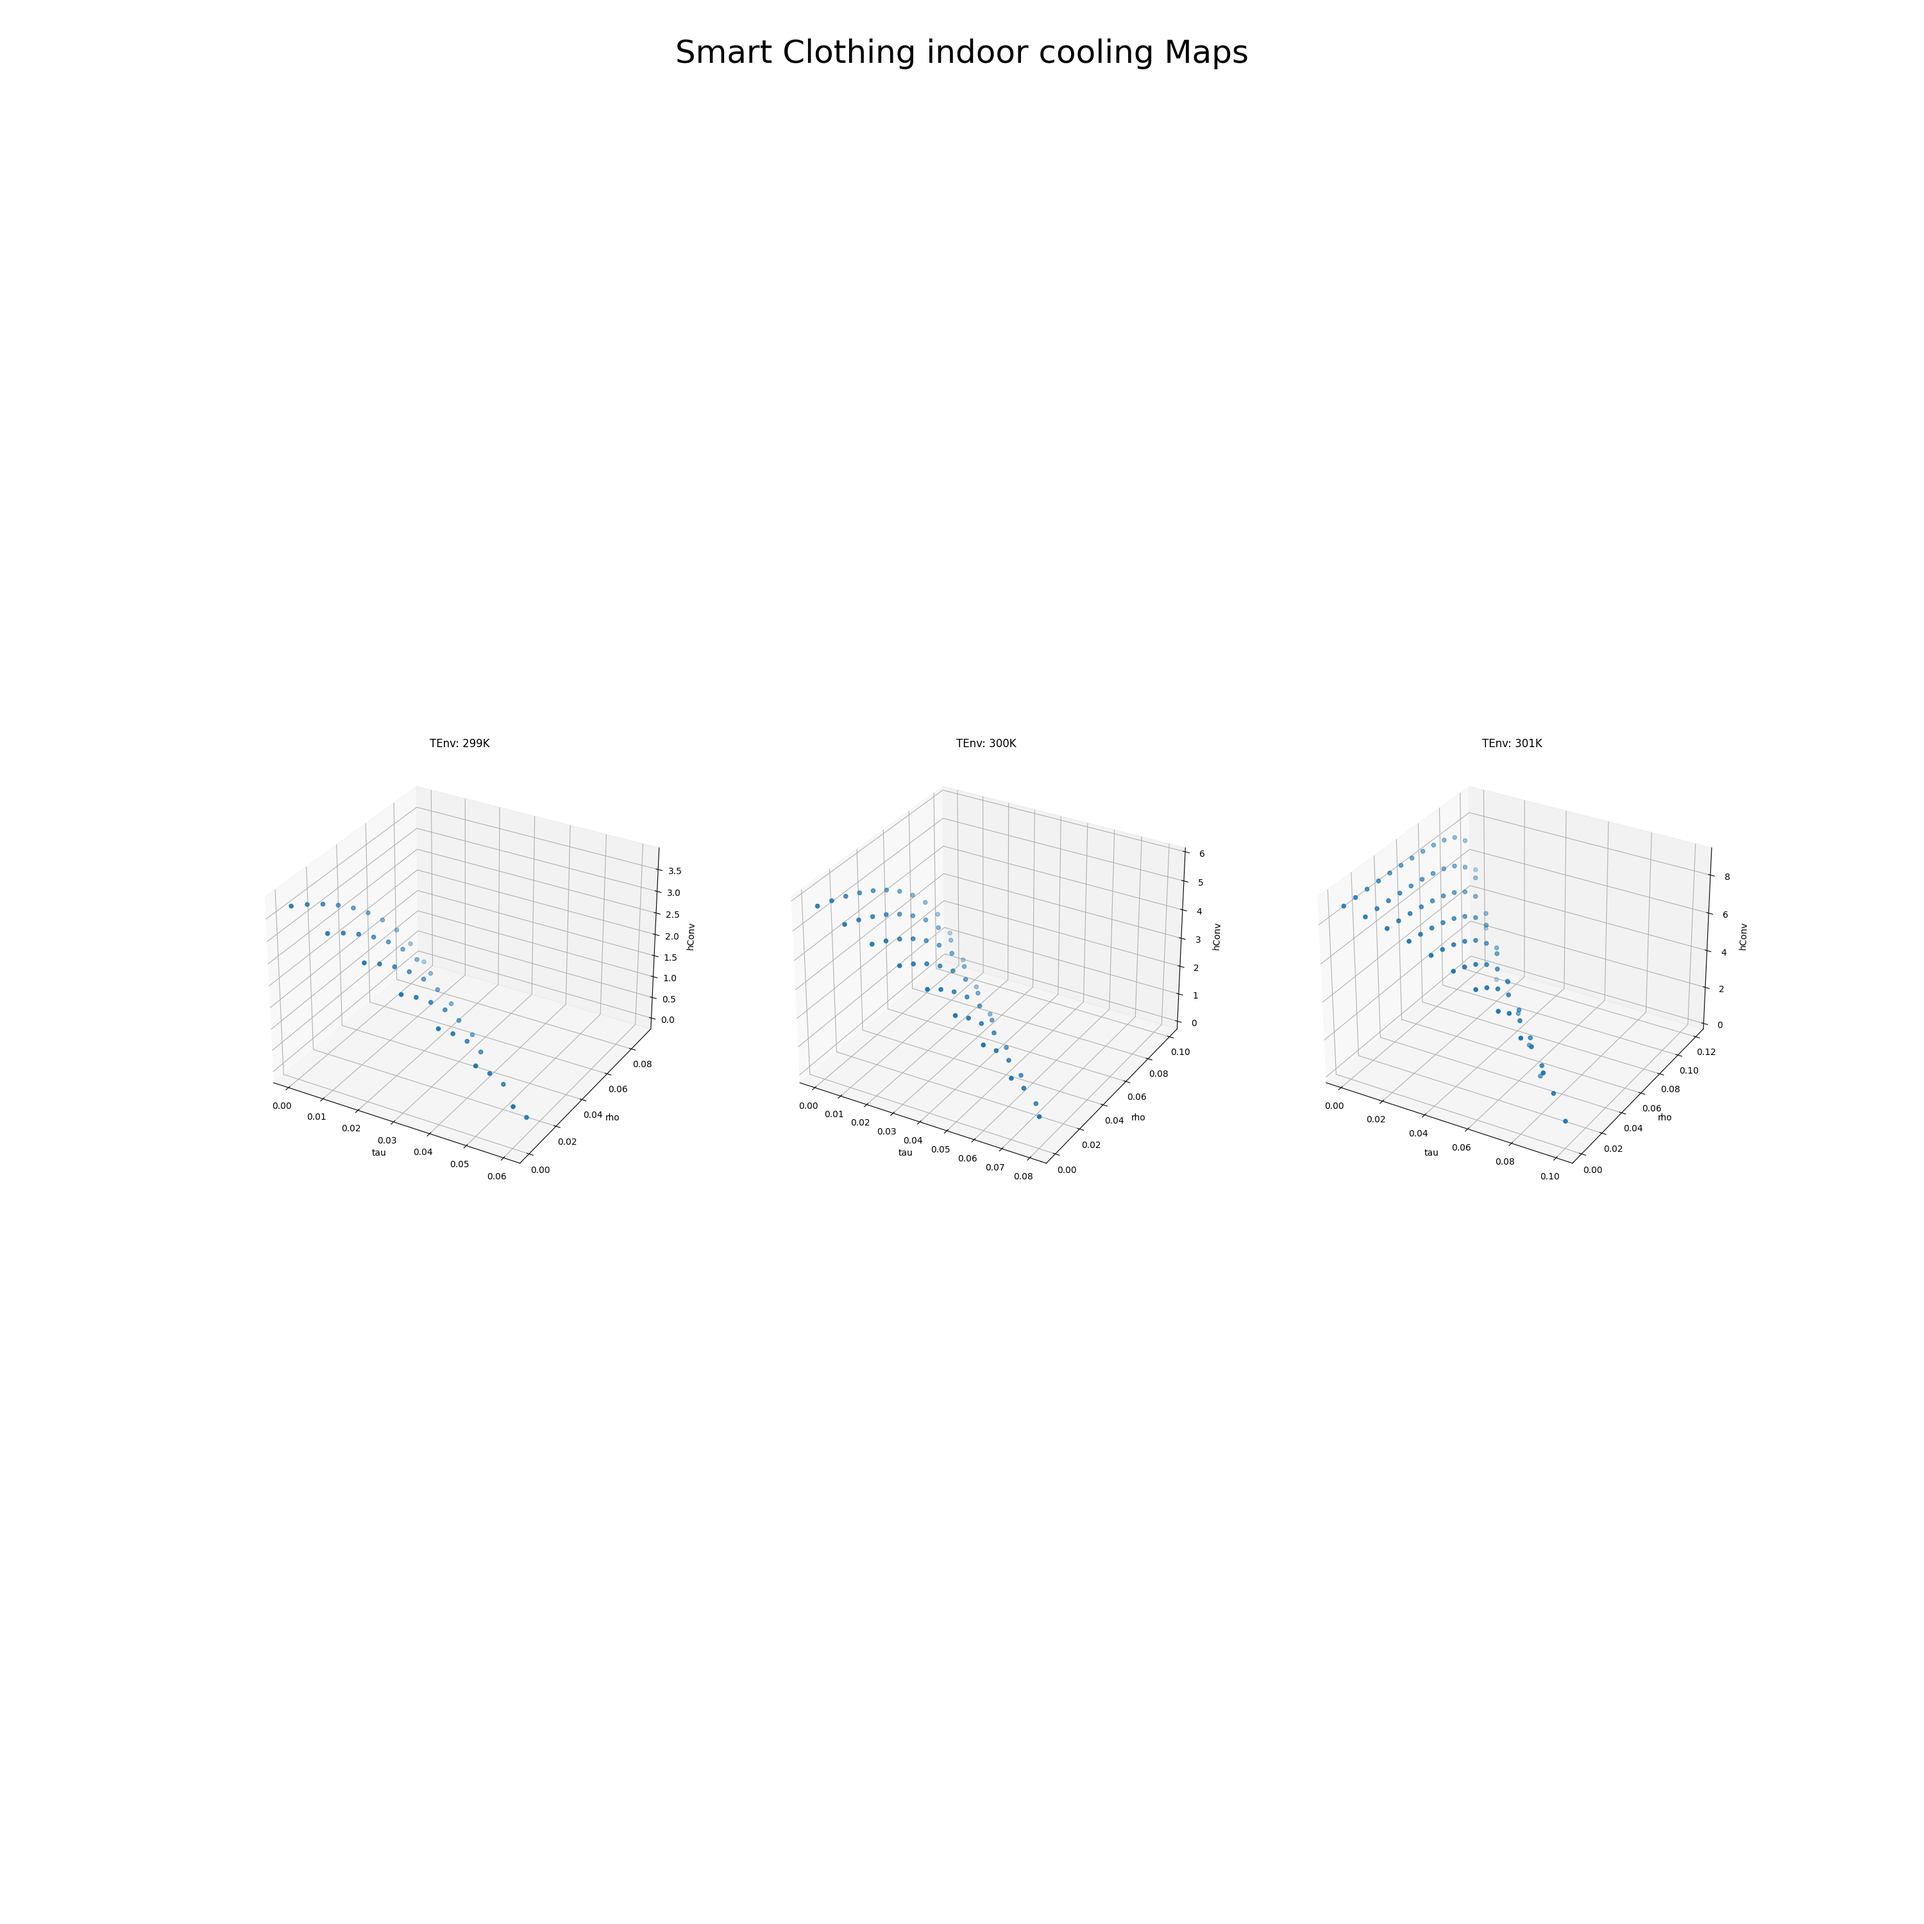
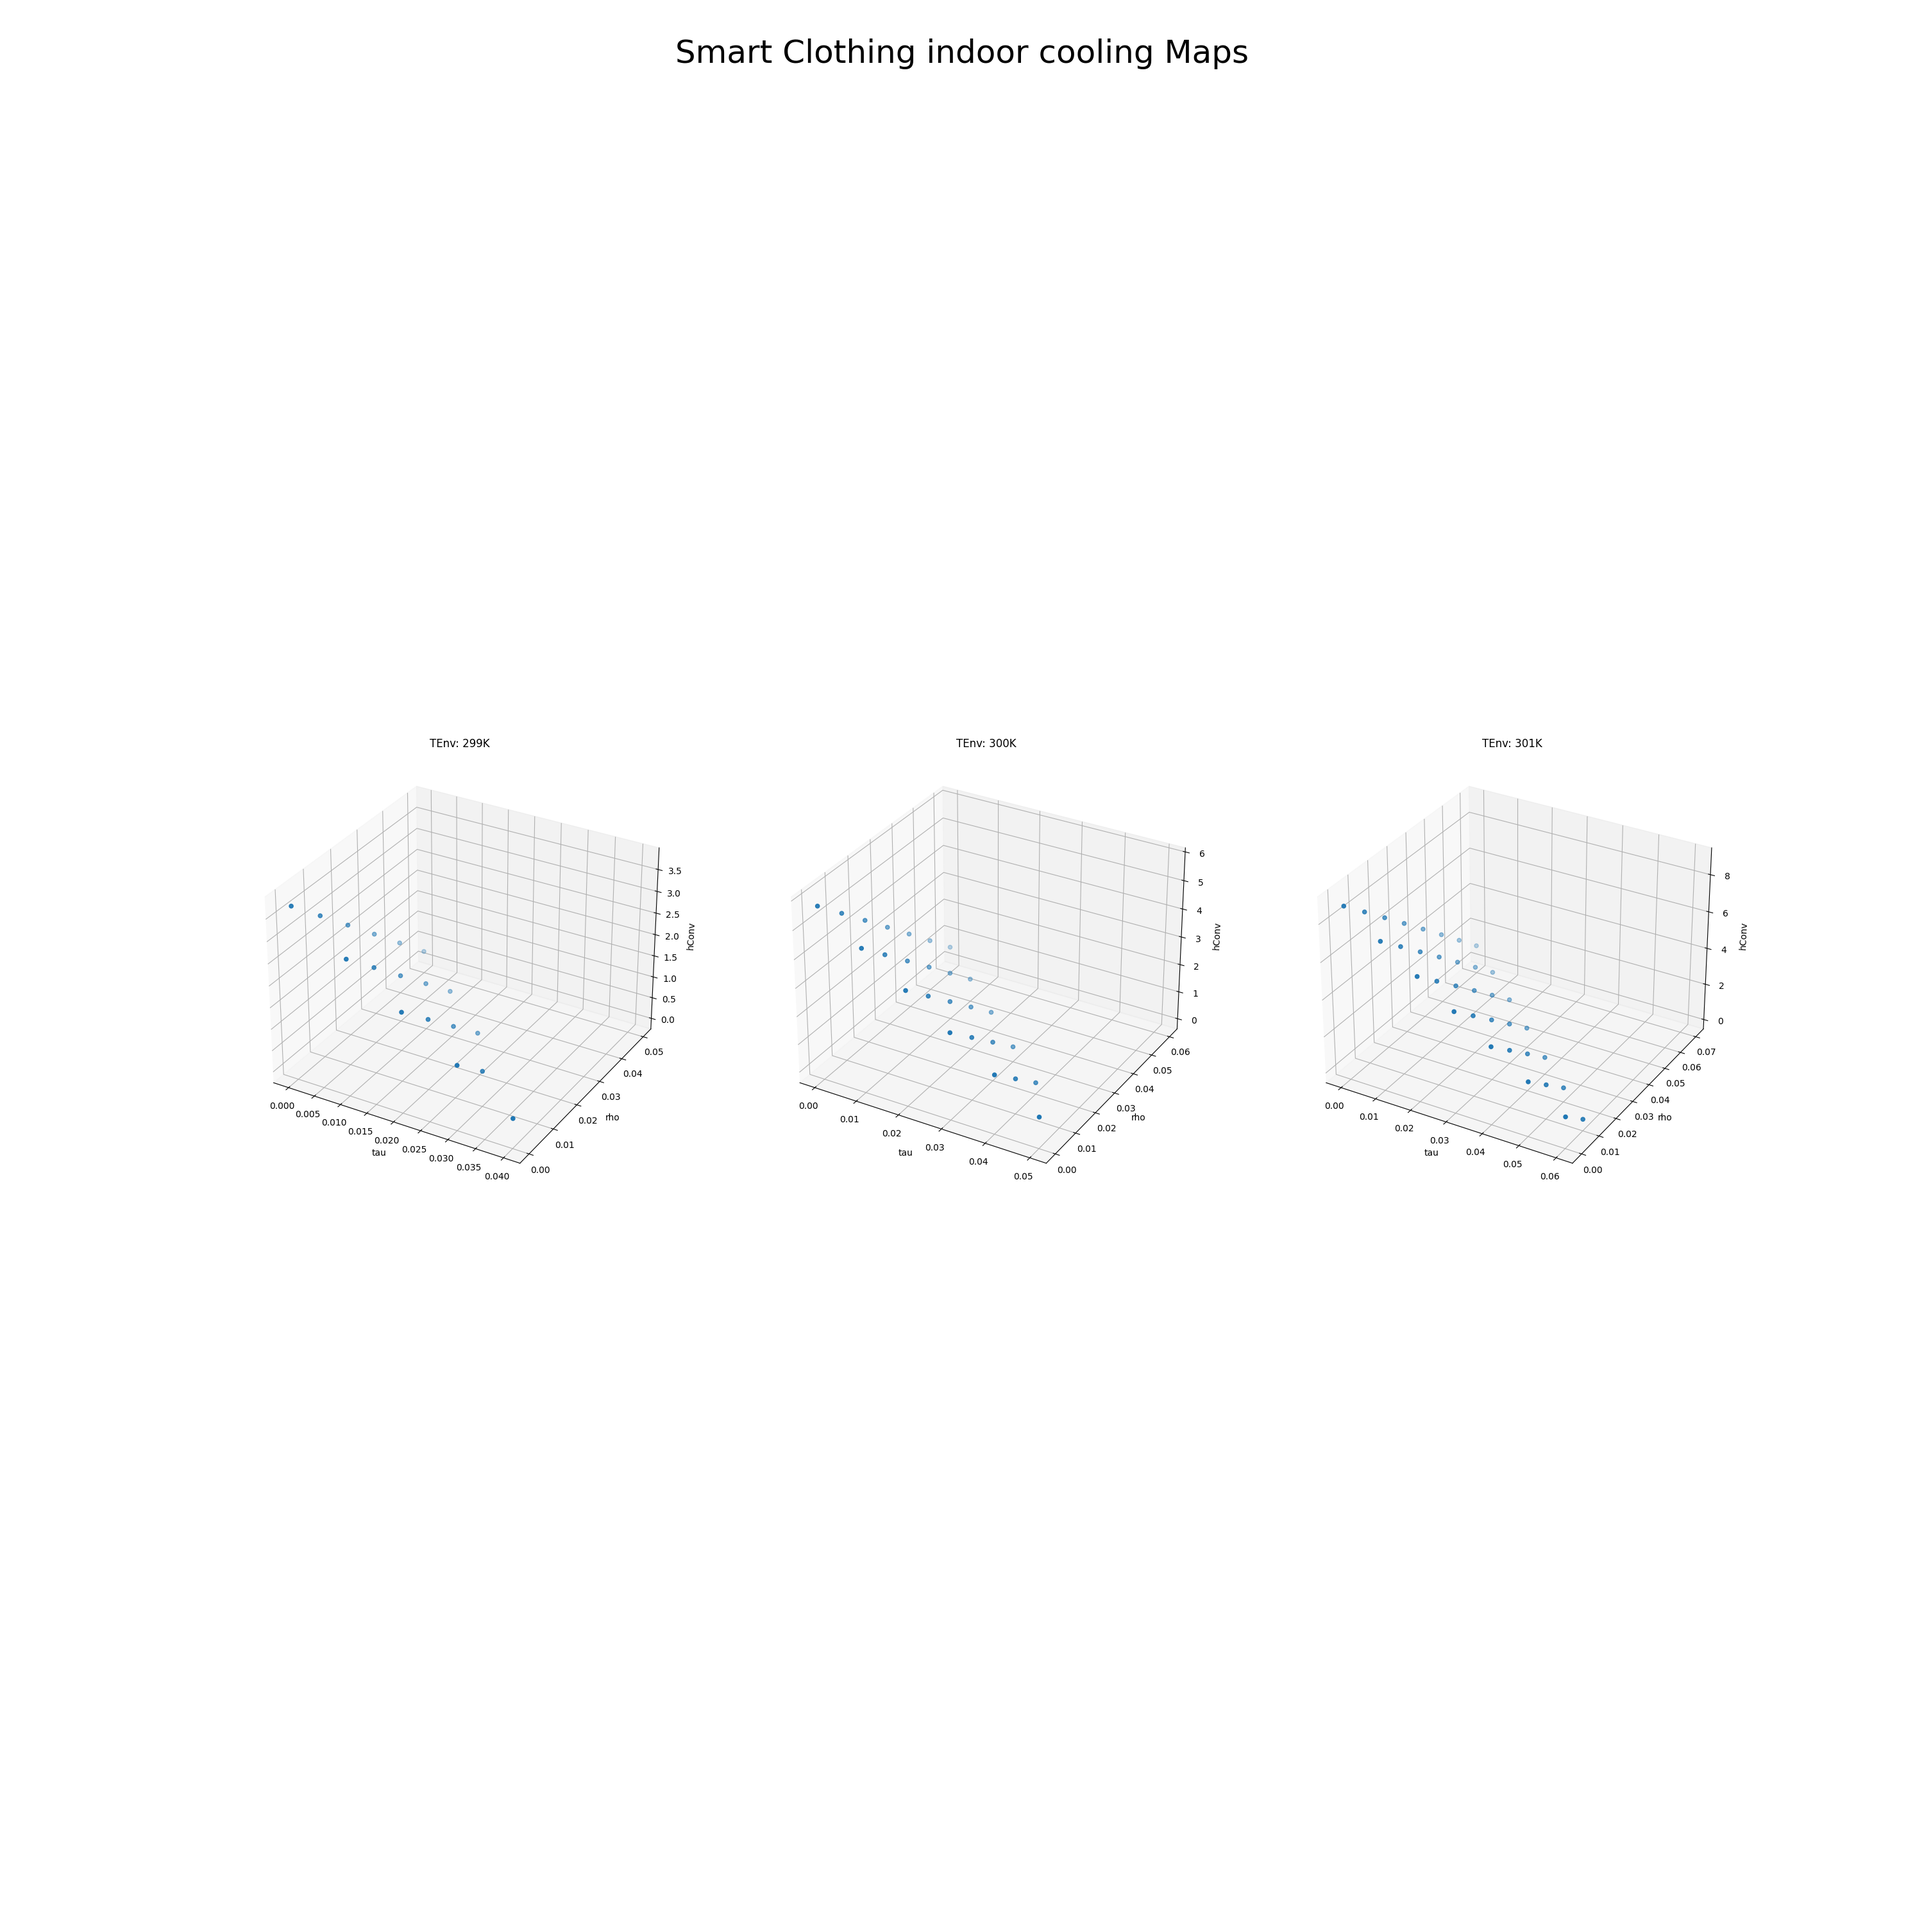
need to refactor all the heat balance, and T3 = f(T0,optical,hConvClo)

diff --git a/insulation.py b/insulation.py
@@ -89,14 +89,16 @@ for TEnv in range(TEnvLow,TEnvHigh):
             B = 0
             C = 0
             D = -1*kAir/thickAir
-            E = kAir/thickAir*(TBody)-tauClo*qRE + (epsilonClo - rhoClo) * qRS - Metab
+            # E = kAir/thickAir*(TBody)-tauClo*qRE + (epsilonClo - rhoClo) * qRS - Metab
+            E = kAir / thickAir * (TBody) - tauClo * qRE + (
+                        1 - rhoClo) * qRS - Metab
             p = np.array([[A, B, C, D, E]])
             try:
                 TCloOneRoots = fqs.quartic_roots(p)
             except ZeroDivisionError:
                 continue
             # print("TCloOne:" + str(TCloOneRoots[0][1].real)+", TEnv:" + str(TEnv))
-            if (TCloOneRoots[0][1].real > 0 and TCloOneRoots[0][1].real < TEnv):
+            if (TCloOneRoots[0][1].real > 0 and TCloOneRoots[0][1].real > TEnv):
                 TCloOne = TCloOneRoots[0][1].real
             else:
                 continue
